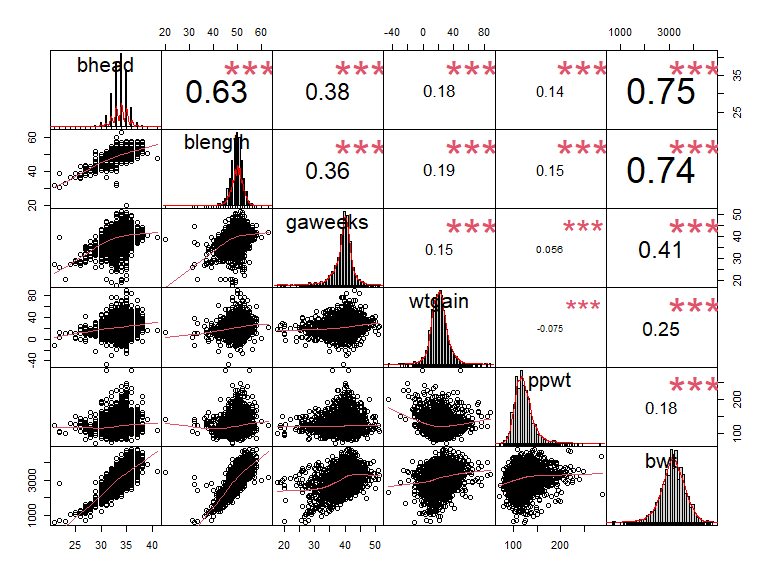
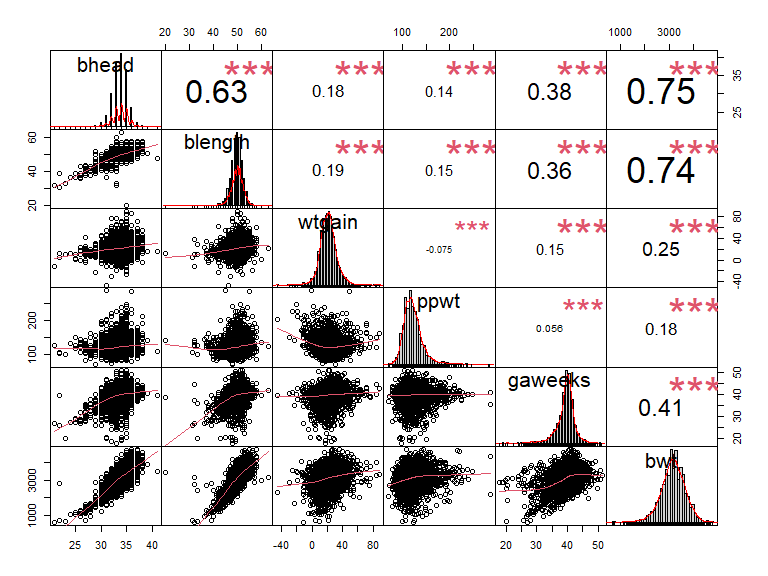
regression correlation check plot modified

diff --git a/p8105_hw6_zs2539.md b/p8105_hw6_zs2539.md
@@ -226,7 +226,7 @@ allcities_or %>%
   geom_errorbar(aes(ymin = ci_lower, ymax = ci_upper)) +
   theme(axis.text.x = element_text(angle = 60, hjust = 1)) +
    labs(
-    title = "Estimated ORs and CIs for solved homicides of each city compared with female victim",
+    title = "Estimated ORs and CIs for solved homicides of each city comparing male to female victim",
     x = "City, State",
     y = "Estimated ORs"
   )
@@ -320,8 +320,7 @@ birthweight_raw %>%
 <img src="p8105_hw6_zs2539_files/figure-gfm/unnamed-chunk-12-1.png" width="90%" />
 
 - Based on t-test, the variables with p-value less than 0.01 are to be
-  selected as potential predictors. To be simple, the continuous are to
-  be selected.
+  selected as potential predictors.
 
 #### Based on the correlation plot, and intuitively, `babysex`, `bhead`, `gaweeks`, `blength`, `wtgain`, `ppwt` are to be included as potential predictors; Hence we can build models on every subsets of these variables and choose the optimal one with the lowest BIC.
 
@@ -346,27 +345,39 @@ variables = subsets[[index]]
 formula = as.formula(paste("bwt", paste(variables, collapse = " + "), sep = "~"))
 fit_optimal = lm(formula, birthweight_df)
 
-birthweight_df %>% 
-  add_residuals(fit_optimal) %>% 
-  add_predictions(fit_optimal) %>% 
-  ggplot(aes(x = pred, y =resid)) +
-  geom_point() +
-    geom_smooth(method = "lm", se = FALSE) +
-  labs(
-    x = "Fitted values",
-    y = "Residuals",
-    title = "Model residuals vs fitted values"
-  )
+summary(fit_optimal)
 ```
 
-<img src="p8105_hw6_zs2539_files/figure-gfm/unnamed-chunk-13-1.png" width="90%" />
+    ## 
+    ## Call:
+    ## lm(formula = formula, data = birthweight_df)
+    ## 
+    ## Residuals:
+    ##      Min       1Q   Median       3Q      Max 
+    ## -1094.98  -183.45    -9.24   172.86  2541.84 
+    ## 
+    ## Coefficients:
+    ##               Estimate Std. Error t value Pr(>|t|)    
+    ## (Intercept) -6206.5185    96.5745 -64.267  < 2e-16 ***
+    ## babysexmale   -32.5114     8.7146  -3.731 0.000193 ***
+    ## bhead         137.1713     3.5293  38.867  < 2e-16 ***
+    ## blength        78.8211     2.0673  38.127  < 2e-16 ***
+    ## wtgain          3.8008     0.4027   9.438  < 2e-16 ***
+    ## ppwt            1.5966     0.2161   7.388 1.78e-13 ***
+    ## gaweeks        13.1690     1.4951   8.808  < 2e-16 ***
+    ## ---
+    ## Signif. codes:  0 '***' 0.001 '**' 0.01 '*' 0.05 '.' 0.1 ' ' 1
+    ## 
+    ## Residual standard error: 281.6 on 4335 degrees of freedom
+    ## Multiple R-squared:  0.6981, Adjusted R-squared:  0.6977 
+    ## F-statistic:  1671 on 6 and 4335 DF,  p-value: < 2.2e-16
 
 #### Collinearity Check for continuous variables
 
 ``` r
 selected_variables =
   birthweight_df %>%
-  select(bhead, blength, gaweeks, wtgain, ppwt, bwt)
+  select(bhead, blength, wtgain, ppwt, gaweeks, bwt)
 
 chart.Correlation(selected_variables, method = "pearson")
 ```
@@ -376,7 +387,7 @@ chart.Correlation(selected_variables, method = "pearson")
 - From the plot, among predictors, `bhead` vs `blength` or `gaweeks`,
   `blength` vs `gaweeks` showed a potential collinearity.
 
-#### Final selection of continuous predictors, and intuitively, we can also include `babysex`.
+#### Final selection of continuous and categorical predictors
 
 ``` r
 selected_variables =
